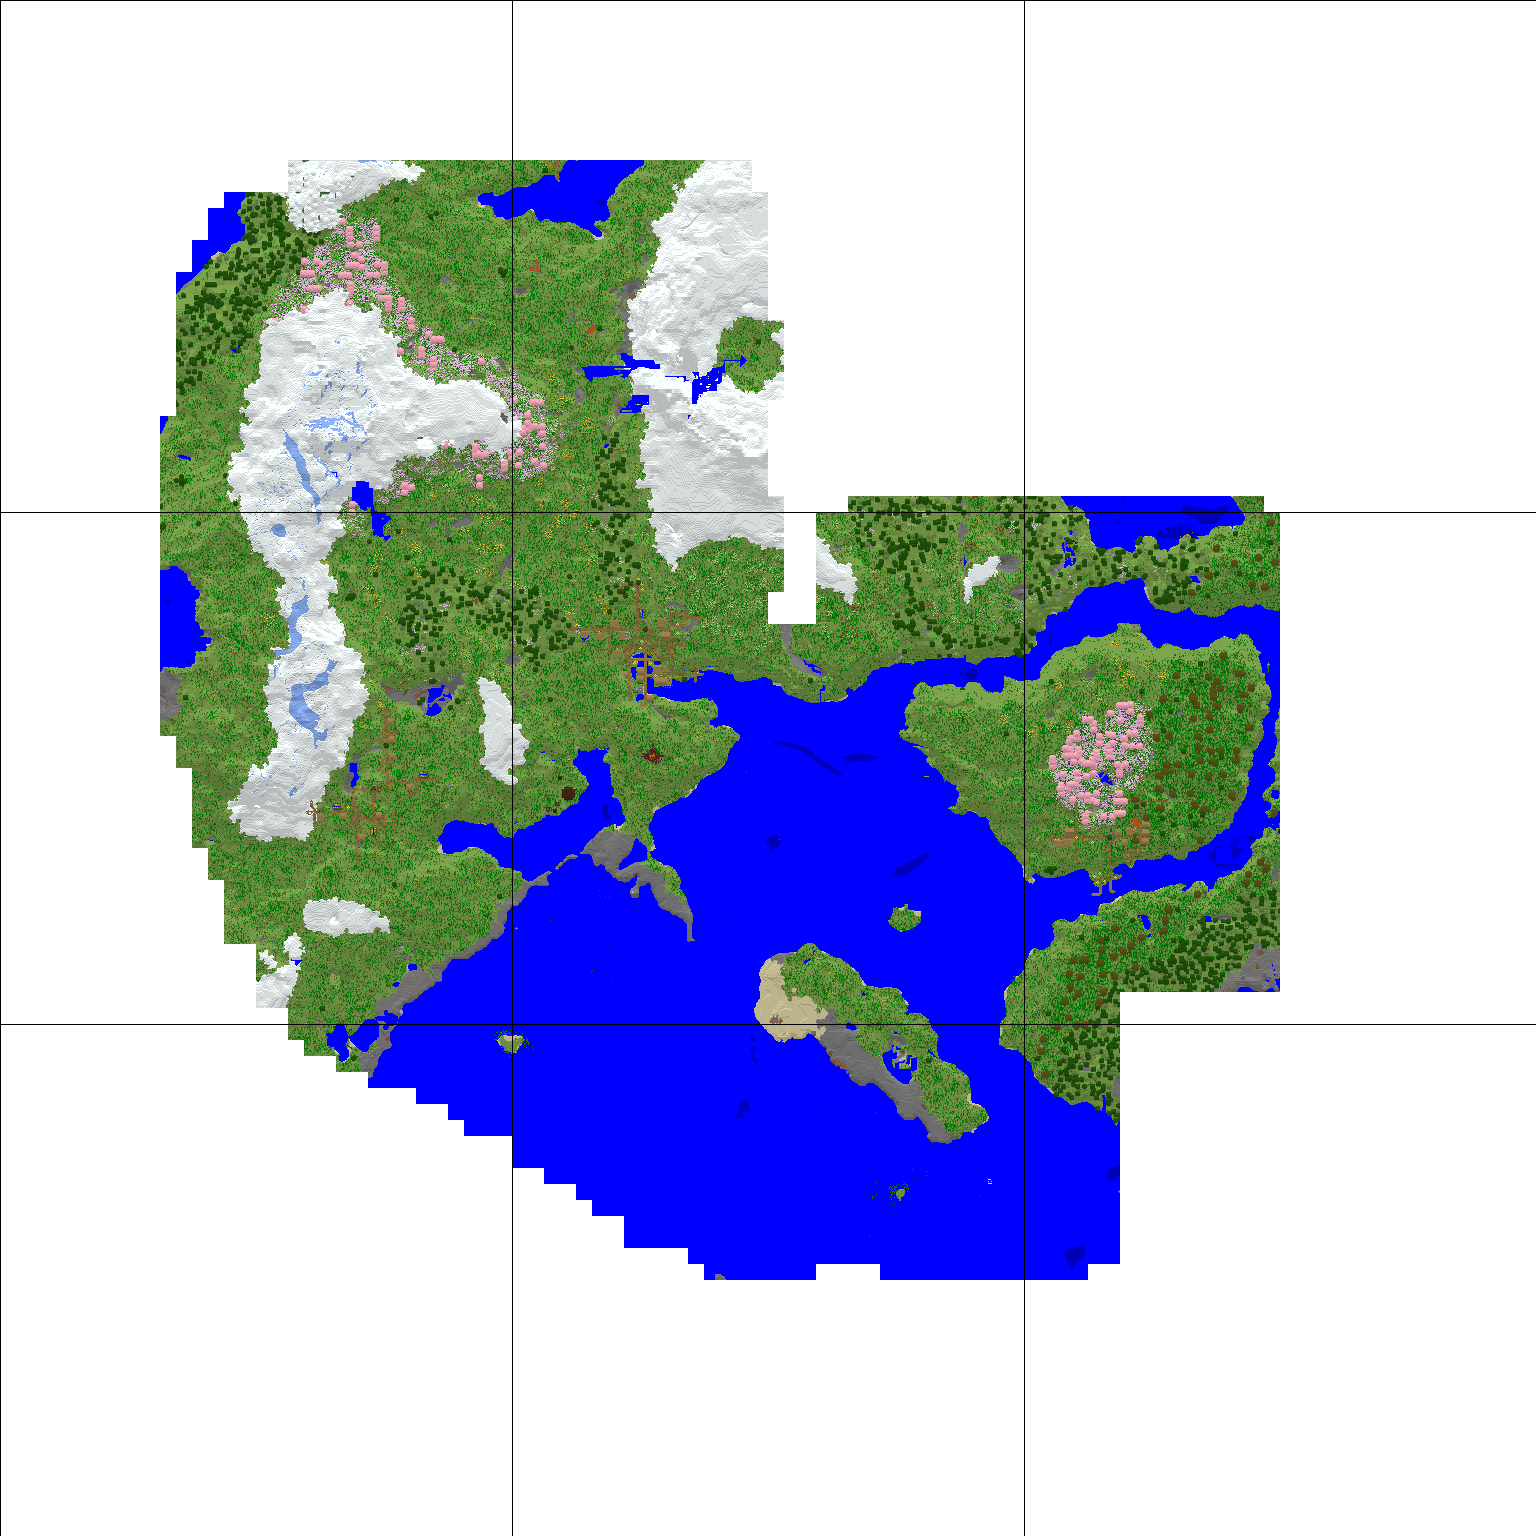
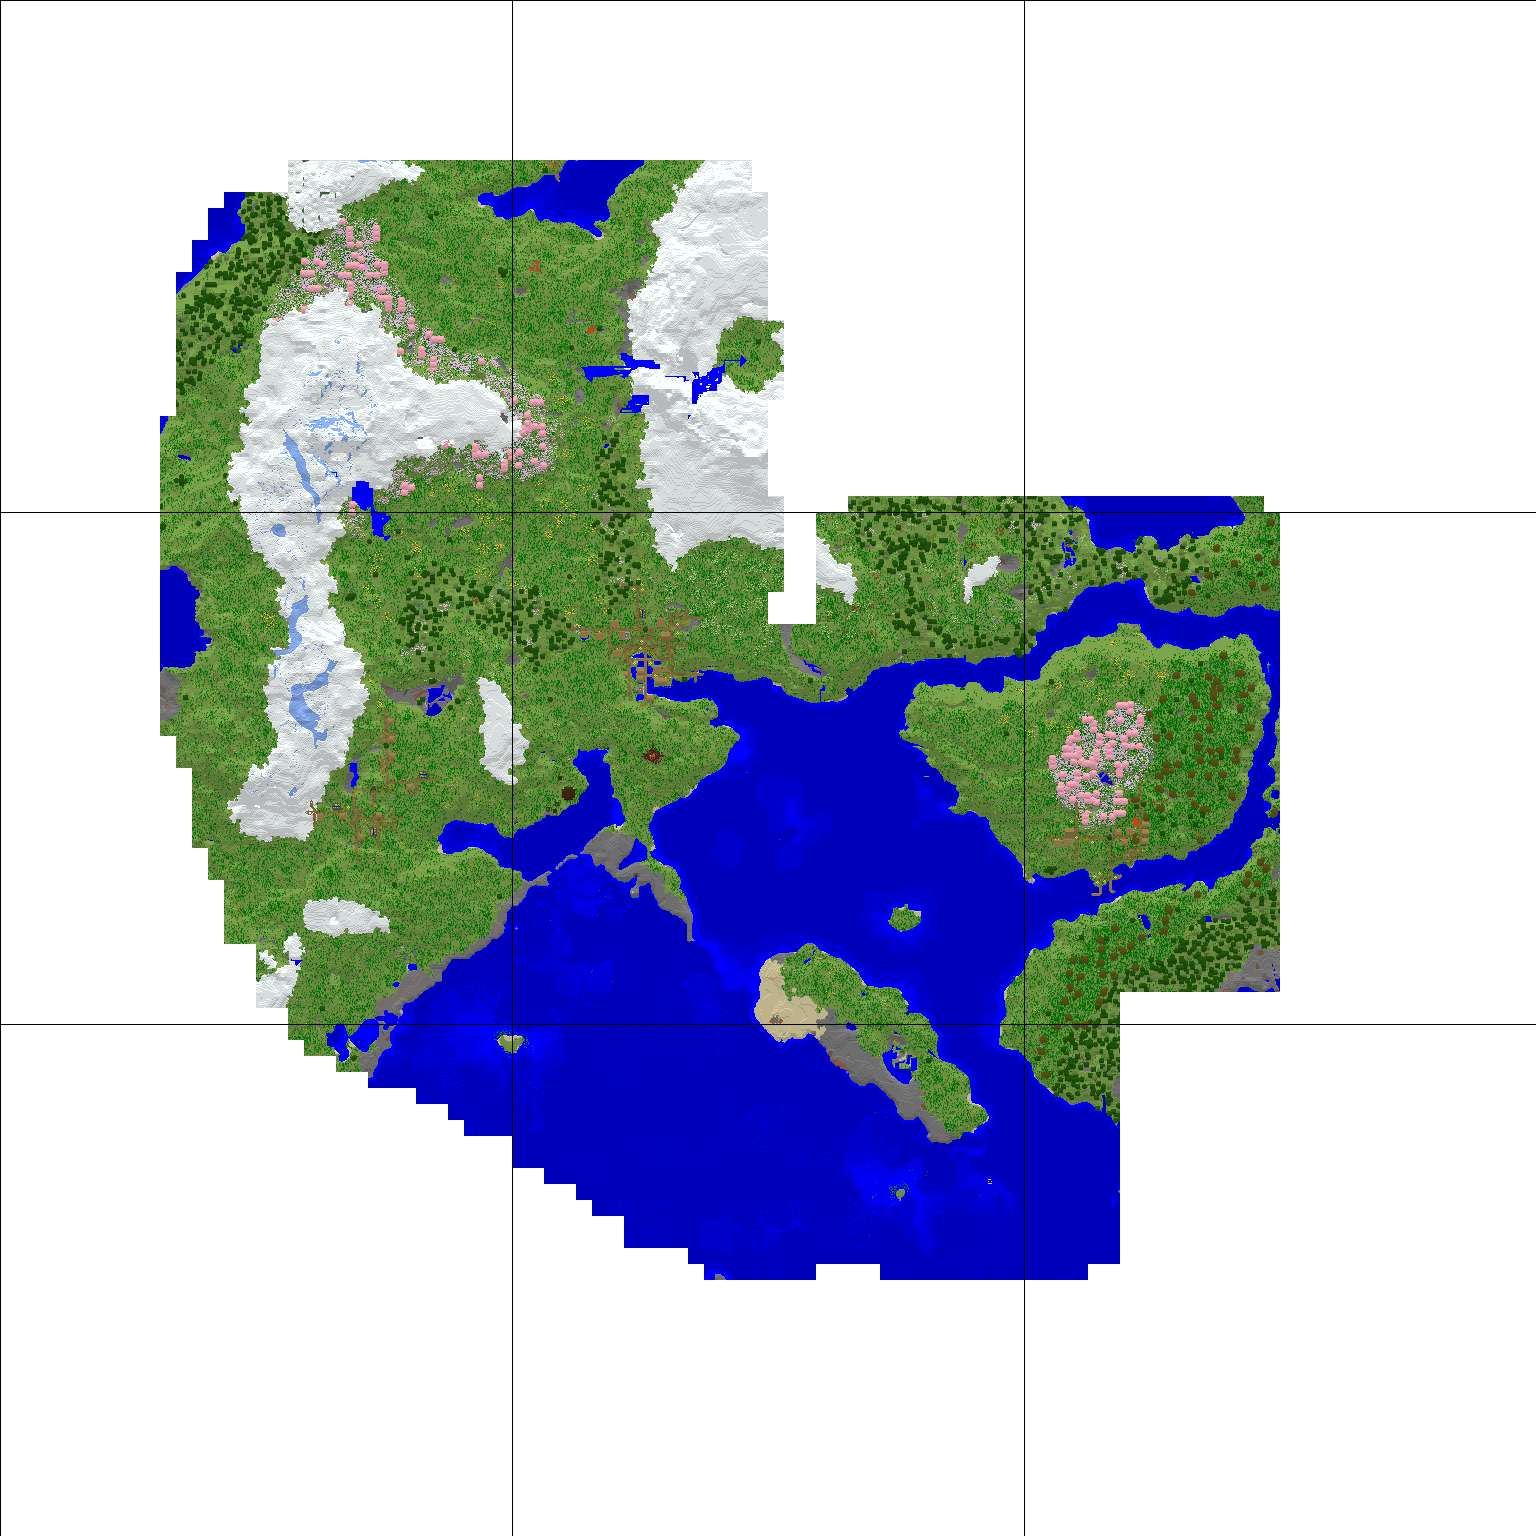
feat: added water depth shading

diff --git a/world-map-generator/src/main/java/net/world/map/structure/collecions/SolidBlockCollection.java b/world-map-generator/src/main/java/net/world/map/structure/collecions/SolidBlockCollection.java
@@ -1,0 +1,149 @@
+package net.world.map.structure.collecions;
+
+import java.util.HashSet;
+import java.util.Set;
+
+public class SolidBlockCollection {
+    public static final Set<String> NOT_SOLID_BLOCKS = new HashSet<>();
+
+    static {
+        NOT_SOLID_BLOCKS.add(MaterialCollection.AIR);
+        NOT_SOLID_BLOCKS.add(MaterialCollection.WATER);
+        NOT_SOLID_BLOCKS.add(MaterialCollection.LAVA);
+        NOT_SOLID_BLOCKS.add(MaterialCollection.POWERED_RAIL);
+        NOT_SOLID_BLOCKS.add(MaterialCollection.DETECTOR_RAIL);
+        NOT_SOLID_BLOCKS.add(MaterialCollection.BROWN_MUSHROOM);
+        NOT_SOLID_BLOCKS.add(MaterialCollection.RED_MUSHROOM);
+        NOT_SOLID_BLOCKS.add(MaterialCollection.TORCH);
+        NOT_SOLID_BLOCKS.add(MaterialCollection.REDSTONE_WIRE);
+        NOT_SOLID_BLOCKS.add(MaterialCollection.LADDER);
+        NOT_SOLID_BLOCKS.add(MaterialCollection.LEVER);
+        NOT_SOLID_BLOCKS.add(MaterialCollection.STONE_BUTTON);
+        NOT_SOLID_BLOCKS.add(MaterialCollection.PUMPKIN_STEM);
+        NOT_SOLID_BLOCKS.add(MaterialCollection.MELON_STEM);
+        NOT_SOLID_BLOCKS.add(MaterialCollection.VINE);
+        NOT_SOLID_BLOCKS.add(MaterialCollection.COCOA);
+        NOT_SOLID_BLOCKS.add(MaterialCollection.TRIPWIRE_HOOK);
+        NOT_SOLID_BLOCKS.add(MaterialCollection.TRIPWIRE);
+        NOT_SOLID_BLOCKS.add(MaterialCollection.FLOWER_POT);
+        NOT_SOLID_BLOCKS.add(MaterialCollection.ACTIVATOR_RAIL);
+        NOT_SOLID_BLOCKS.add(MaterialCollection.END_ROD);
+        NOT_SOLID_BLOCKS.add(MaterialCollection.CHORUS_PLANT);
+        NOT_SOLID_BLOCKS.add(MaterialCollection.CHORUS_FLOWER);
+        NOT_SOLID_BLOCKS.add(MaterialCollection.SUGAR_CANE);
+        NOT_SOLID_BLOCKS.add(MaterialCollection.MELON);
+        NOT_SOLID_BLOCKS.add(MaterialCollection.SHORT_GRASS);
+        NOT_SOLID_BLOCKS.add(MaterialCollection.TALL_GRASS);
+        NOT_SOLID_BLOCKS.add(MaterialCollection.FERN);
+        NOT_SOLID_BLOCKS.add(MaterialCollection.LARGE_FERN);
+        NOT_SOLID_BLOCKS.add(MaterialCollection.KELP);
+        NOT_SOLID_BLOCKS.add(MaterialCollection.WHEAT);
+        NOT_SOLID_BLOCKS.add(MaterialCollection.SEA_PICKLE);
+        NOT_SOLID_BLOCKS.add(MaterialCollection.SEAGRASS);
+        NOT_SOLID_BLOCKS.add(MaterialCollection.TALL_SEAGRASS);
+        NOT_SOLID_BLOCKS.add(MaterialCollection.SCULK_CATALYST);
+        NOT_SOLID_BLOCKS.add(MaterialCollection.FROGSPAWN);
+        NOT_SOLID_BLOCKS.add(MaterialCollection.ACACIA_HANGING_SIGN);
+        NOT_SOLID_BLOCKS.add(MaterialCollection.CHERRY_HANGING_SIGN);
+        NOT_SOLID_BLOCKS.add(MaterialCollection.JUNGLE_HANGING_SIGN);
+        NOT_SOLID_BLOCKS.add(MaterialCollection.DARK_OAK_HANGING_SIGN);
+        NOT_SOLID_BLOCKS.add(MaterialCollection.CRIMSON_HANGING_SIGN);
+        NOT_SOLID_BLOCKS.add(MaterialCollection.WARPED_HANGING_SIGN);
+        NOT_SOLID_BLOCKS.add(MaterialCollection.MANGROVE_HANGING_SIGN);
+        NOT_SOLID_BLOCKS.add(MaterialCollection.BAMBOO_HANGING_SIGN);
+        NOT_SOLID_BLOCKS.add(MaterialCollection.OAK_WALL_HANGING_SIGN);
+        NOT_SOLID_BLOCKS.add(MaterialCollection.SPRUCE_WALL_HANGING_SIGN);
+        NOT_SOLID_BLOCKS.add(MaterialCollection.BIRCH_WALL_HANGING_SIGN);
+        NOT_SOLID_BLOCKS.add(MaterialCollection.ACACIA_WALL_HANGING_SIGN);
+        NOT_SOLID_BLOCKS.add(MaterialCollection.CHERRY_WALL_HANGING_SIGN);
+        NOT_SOLID_BLOCKS.add(MaterialCollection.JUNGLE_WALL_HANGING_SIGN);
+        NOT_SOLID_BLOCKS.add(MaterialCollection.DARK_OAK_WALL_HANGING_SIGN);
+        NOT_SOLID_BLOCKS.add(MaterialCollection.MANGROVE_WALL_HANGING_SIGN);
+        NOT_SOLID_BLOCKS.add(MaterialCollection.CRIMSON_WALL_HANGING_SIGN);
+        NOT_SOLID_BLOCKS.add(MaterialCollection.WARPED_WALL_HANGING_SIGN);
+        NOT_SOLID_BLOCKS.add(MaterialCollection.BAMBOO_WALL_HANGING_SIGN);
+        NOT_SOLID_BLOCKS.add(MaterialCollection.DEAD_BUSH);
+        NOT_SOLID_BLOCKS.add(MaterialCollection.DEAD_TUBE_CORAL_BLOCK);
+        NOT_SOLID_BLOCKS.add(MaterialCollection.DEAD_BRAIN_CORAL_BLOCK);
+        NOT_SOLID_BLOCKS.add(MaterialCollection.DEAD_BUBBLE_CORAL_BLOCK);
+        NOT_SOLID_BLOCKS.add(MaterialCollection.DEAD_FIRE_CORAL_BLOCK);
+        NOT_SOLID_BLOCKS.add(MaterialCollection.DEAD_HORN_CORAL_BLOCK);
+        NOT_SOLID_BLOCKS.add(MaterialCollection.TUBE_CORAL_BLOCK);
+        NOT_SOLID_BLOCKS.add(MaterialCollection.BRAIN_CORAL_BLOCK);
+        NOT_SOLID_BLOCKS.add(MaterialCollection.BUBBLE_CORAL_BLOCK);
+        NOT_SOLID_BLOCKS.add(MaterialCollection.FIRE_CORAL_BLOCK);
+        NOT_SOLID_BLOCKS.add(MaterialCollection.HORN_CORAL_BLOCK);
+        NOT_SOLID_BLOCKS.add(MaterialCollection.DEAD_TUBE_CORAL);
+        NOT_SOLID_BLOCKS.add(MaterialCollection.DEAD_BRAIN_CORAL);
+        NOT_SOLID_BLOCKS.add(MaterialCollection.DEAD_BUBBLE_CORAL);
+        NOT_SOLID_BLOCKS.add(MaterialCollection.DEAD_FIRE_CORAL);
+        NOT_SOLID_BLOCKS.add(MaterialCollection.DEAD_HORN_CORAL);
+        NOT_SOLID_BLOCKS.add(MaterialCollection.TUBE_CORAL);
+        NOT_SOLID_BLOCKS.add(MaterialCollection.BRAIN_CORAL);
+        NOT_SOLID_BLOCKS.add(MaterialCollection.BUBBLE_CORAL);
+        NOT_SOLID_BLOCKS.add(MaterialCollection.FIRE_CORAL);
+        NOT_SOLID_BLOCKS.add(MaterialCollection.HORN_CORAL);
+        NOT_SOLID_BLOCKS.add(MaterialCollection.DEAD_TUBE_CORAL_FAN);
+        NOT_SOLID_BLOCKS.add(MaterialCollection.DEAD_BRAIN_CORAL_FAN);
+        NOT_SOLID_BLOCKS.add(MaterialCollection.DEAD_BUBBLE_CORAL_FAN);
+        NOT_SOLID_BLOCKS.add(MaterialCollection.DEAD_FIRE_CORAL_FAN);
+        NOT_SOLID_BLOCKS.add(MaterialCollection.DEAD_HORN_CORAL_FAN);
+        NOT_SOLID_BLOCKS.add(MaterialCollection.TUBE_CORAL_FAN);
+        NOT_SOLID_BLOCKS.add(MaterialCollection.BRAIN_CORAL_FAN);
+        NOT_SOLID_BLOCKS.add(MaterialCollection.BUBBLE_CORAL_FAN);
+        NOT_SOLID_BLOCKS.add(MaterialCollection.FIRE_CORAL_FAN);
+        NOT_SOLID_BLOCKS.add(MaterialCollection.HORN_CORAL_FAN);
+        NOT_SOLID_BLOCKS.add(MaterialCollection.DEAD_TUBE_CORAL_WALL_FAN);
+        NOT_SOLID_BLOCKS.add(MaterialCollection.DEAD_BRAIN_CORAL_WALL_FAN);
+        NOT_SOLID_BLOCKS.add(MaterialCollection.DEAD_BUBBLE_CORAL_WALL_FAN);
+        NOT_SOLID_BLOCKS.add(MaterialCollection.DEAD_FIRE_CORAL_WALL_FAN);
+        NOT_SOLID_BLOCKS.add(MaterialCollection.DEAD_HORN_CORAL_WALL_FAN);
+        NOT_SOLID_BLOCKS.add(MaterialCollection.TUBE_CORAL_WALL_FAN);
+        NOT_SOLID_BLOCKS.add(MaterialCollection.BRAIN_CORAL_WALL_FAN);
+        NOT_SOLID_BLOCKS.add(MaterialCollection.BUBBLE_CORAL_WALL_FAN);
+        NOT_SOLID_BLOCKS.add(MaterialCollection.FIRE_CORAL_WALL_FAN);
+        NOT_SOLID_BLOCKS.add(MaterialCollection.HORN_CORAL_WALL_FAN);
+        NOT_SOLID_BLOCKS.add(MaterialCollection.COBWEB);
+        NOT_SOLID_BLOCKS.add(MaterialCollection.FIRE);
+        NOT_SOLID_BLOCKS.add(MaterialCollection.STRUCTURE_VOID);
+        NOT_SOLID_BLOCKS.add(MaterialCollection.NETHER_PORTAL);
+        NOT_SOLID_BLOCKS.add(MaterialCollection.END_GATEWAY);
+        NOT_SOLID_BLOCKS.add(MaterialCollection.SNOW);
+        NOT_SOLID_BLOCKS.add(MaterialCollection.LIGHT_WEIGHTED_PRESSURE_PLATE);
+        NOT_SOLID_BLOCKS.add(MaterialCollection.HEAVY_WEIGHTED_PRESSURE_PLATE);
+        NOT_SOLID_BLOCKS.add(MaterialCollection.POLISHED_BLACKSTONE_PRESSURE_PLATE);
+        NOT_SOLID_BLOCKS.add(MaterialCollection.OAK_PRESSURE_PLATE);
+        NOT_SOLID_BLOCKS.add(MaterialCollection.SPRUCE_PRESSURE_PLATE);
+        NOT_SOLID_BLOCKS.add(MaterialCollection.BIRCH_PRESSURE_PLATE);
+        NOT_SOLID_BLOCKS.add(MaterialCollection.JUNGLE_PRESSURE_PLATE);
+        NOT_SOLID_BLOCKS.add(MaterialCollection.ACACIA_PRESSURE_PLATE);
+        NOT_SOLID_BLOCKS.add(MaterialCollection.CHERRY_PRESSURE_PLATE);
+        NOT_SOLID_BLOCKS.add(MaterialCollection.DARK_OAK_PRESSURE_PLATE);
+        NOT_SOLID_BLOCKS.add(MaterialCollection.MANGROVE_PRESSURE_PLATE);
+        NOT_SOLID_BLOCKS.add(MaterialCollection.BAMBOO_PRESSURE_PLATE);
+        NOT_SOLID_BLOCKS.add(MaterialCollection.STONE_PRESSURE_PLATE);
+        NOT_SOLID_BLOCKS.add(MaterialCollection.CRIMSON_PRESSURE_PLATE);
+        NOT_SOLID_BLOCKS.add(MaterialCollection.WARPED_PRESSURE_PLATE);
+        NOT_SOLID_BLOCKS.add(MaterialCollection.SPRUCE_SAPLING);
+        NOT_SOLID_BLOCKS.add(MaterialCollection.OAK_SAPLING);
+        NOT_SOLID_BLOCKS.add(MaterialCollection.BIRCH_SAPLING);
+        NOT_SOLID_BLOCKS.add(MaterialCollection.JUNGLE_SAPLING);
+        NOT_SOLID_BLOCKS.add(MaterialCollection.ACACIA_SAPLING);
+        NOT_SOLID_BLOCKS.add(MaterialCollection.CHERRY_SAPLING);
+        NOT_SOLID_BLOCKS.add(MaterialCollection.DARK_OAK_SAPLING);
+        NOT_SOLID_BLOCKS.add(MaterialCollection.POTTED_OAK_SAPLING);
+        NOT_SOLID_BLOCKS.add(MaterialCollection.POTTED_SPRUCE_SAPLING);
+        NOT_SOLID_BLOCKS.add(MaterialCollection.POTTED_BIRCH_SAPLING);
+        NOT_SOLID_BLOCKS.add(MaterialCollection.POTTED_JUNGLE_SAPLING);
+        NOT_SOLID_BLOCKS.add(MaterialCollection.POTTED_ACACIA_SAPLING);
+        NOT_SOLID_BLOCKS.add(MaterialCollection.POTTED_CHERRY_SAPLING);
+        NOT_SOLID_BLOCKS.add(MaterialCollection.POTTED_DARK_OAK_SAPLING);
+        NOT_SOLID_BLOCKS.add(MaterialCollection.BAMBOO_SAPLING);
+        NOT_SOLID_BLOCKS.add(MaterialCollection.CRIMSON_FUNGUS);
+        //TODO add and mark all blocks
+    }
+
+    public static boolean isNotSolid(String blockType) {
+        return NOT_SOLID_BLOCKS.contains(blockType);
+    }
+}

diff --git a/world-map-generator/src/main/java/net/world/map/structure/collecions/MaterialColorCollection.java b/world-map-generator/src/main/java/net/world/map/structure/collecions/MaterialColorCollection.java
@@ -1,10 +1,10 @@
 package net.world.map.structure.collecions;
 
-import java.util.LinkedHashMap;
+import java.util.HashMap;
 import java.util.Map;
 
-public class MaterialColorsCollection {
-    public static final Map<String, Integer> BLOCK_COLORS = new LinkedHashMap<>();
+public class MaterialColorCollection {
+    public static final Map<String, Integer> BLOCK_COLORS = new HashMap<>();
 
     static {
         BLOCK_COLORS.put(MaterialCollection.CHERRY_LEAVES, -86334);
@@ -400,8 +400,6 @@ public class MaterialColorsCollection {
         BLOCK_COLORS.put(MaterialCollection.LAVA, 13916690);
         BLOCK_COLORS.put(MaterialCollection.LAVA_CAULDRON, 4868426);
         BLOCK_COLORS.put(MaterialCollection.LECTERN, 11438419);
-
-
         BLOCK_COLORS.put(MaterialCollection.LIGHT_BLUE_BED, 3846105);
         BLOCK_COLORS.put(MaterialCollection.LIGHT_BLUE_CANDLE, 2329541);
         BLOCK_COLORS.put(MaterialCollection.LIGHT_BLUE_CANDLE_CAKE, 2329541);
@@ -749,7 +747,6 @@ public class MaterialColorsCollection {
         BLOCK_COLORS.put(MaterialCollection.SPAWNER, 2436928);
         BLOCK_COLORS.put(MaterialCollection.SPONGE, 12894539);
         BLOCK_COLORS.put(MaterialCollection.SPORE_BLOSSOM, 13919140);
-
         BLOCK_COLORS.put(MaterialCollection.SPRUCE_DOOR, 6967344);
         BLOCK_COLORS.put(MaterialCollection.SPRUCE_FENCE, 7558449);
         BLOCK_COLORS.put(MaterialCollection.SPRUCE_FENCE_GATE, 7558449);
@@ -891,7 +888,9 @@ public class MaterialColorsCollection {
         BLOCK_COLORS.put(MaterialCollection.FERN, -16745472);
         BLOCK_COLORS.put(MaterialCollection.LARGE_FERN, -16745472);
         BLOCK_COLORS.put(MaterialCollection.KELP, -16745472);
+        BLOCK_COLORS.put(MaterialCollection.KELP_PLANT, -16745472);
         BLOCK_COLORS.put(MaterialCollection.WHEAT, -2574531);
+        BLOCK_COLORS.put(MaterialCollection.FARMLAND, -5940693);
     }
 
     public static int getColor(String blockType) {

diff --git a/world-map-generator/src/main/java/net/world/map/generator/renderers/ChunkRenderer.java b/world-map-generator/src/main/java/net/world/map/generator/renderers/ChunkRenderer.java
@@ -1,8 +1,8 @@
 package net.world.map.generator.renderers;
 
 import net.world.map.structure.collecions.MaterialCollection;
+import net.world.map.structure.collecions.MaterialColorCollection;
 import net.world.map.structure.config.ChunkConfig;
-import net.world.map.structure.collecions.MaterialColorsCollection;
 import net.world.map.structure.model.Block;
 import net.world.map.structure.model.Chunk;
 import net.world.map.structure.model.UnderwaterBlock;
@@ -31,12 +31,13 @@ public class ChunkRenderer {
 
                 int blockHeight = block.getHeight();
                 int brightness;
-                int color;
+                int color = MaterialColorCollection.getColor(block.getBlockType());
 
                 if (block instanceof UnderwaterBlock underwaterBlock) {
-                    color = MaterialColorsCollection.getColor(MaterialCollection.WATER);
                     int depth = underwaterBlock.getDepth();
-                    double heightDiff = (double) (depth - blockHeight) * 0.1D + (double) (x + y & 1) * 0.2D;
+                    double heightDiff = (double) depth * 0.1D + (double) (x + y & 1) * 0.2D;
+
+                    color = MaterialColorCollection.getColor(MaterialCollection.WATER);
 
                     if (heightDiff < 0.5D) {
                         brightness = 0x00;
@@ -46,7 +47,6 @@ public class ChunkRenderer {
                         brightness = 0x22;
                     }
                 } else {
-                    color = block.getRgb();
                     double heightDiff = (blockHeight - lastBlockHeight) * 4.0D / (double) (1 + 4) + ((double) (x + y & 1) - 0.5D) * 0.4D;
 
                     if (heightDiff > 0.6D) {

diff --git a/world-map-generator/src/main/java/net/world/map/loader/parsers/ChunkParser.java b/world-map-generator/src/main/java/net/world/map/loader/parsers/ChunkParser.java
@@ -3,9 +3,10 @@ package net.world.map.loader.parsers;
 import net.querz.nbt.tag.CompoundTag;
 import net.querz.nbt.tag.ListTag;
 import net.world.map.loader.config.LoadingBlockConfig;
-import net.world.map.structure.collecions.MaterialColorsCollection;
 import net.world.map.structure.collecions.MaterialCollection;
-import net.world.map.structure.config.*;
+import net.world.map.structure.config.ChunkConfig;
+import net.world.map.structure.config.SectionConfig;
+import net.world.map.structure.config.WorldConfig;
 import net.world.map.structure.model.Block;
 import net.world.map.structure.model.Chunk;
 import net.world.map.structure.model.UnderwaterBlock;
@@ -69,14 +70,13 @@ public class ChunkParser {
 
                     int blockGlobalX = startBlockX + x;
                     int blockGlobalY = startBlockY + y;
-                    int rgb = MaterialColorsCollection.getColor(blockType);
 
                     if (depth > 0) {
-                        chunk.addBlockByLocal(x, y, new UnderwaterBlock(blockGlobalX, blockGlobalY, height, depth, rgb));
+                        chunk.addBlockByLocal(x, y, new UnderwaterBlock(blockGlobalX, blockGlobalY, height, depth, blockType));
                         break;
                     }
 
-                    chunk.addBlockByLocal(x, y, new Block(blockGlobalX, blockGlobalY, height, rgb));
+                    chunk.addBlockByLocal(x, y, new Block(blockGlobalX, blockGlobalY, height, blockType));
                     break;
                 }
             }

diff --git a/world-map-generator/src/main/java/net/world/map/structure/model/Block.java b/world-map-generator/src/main/java/net/world/map/structure/model/Block.java
@@ -4,13 +4,13 @@ public class Block {
     public final int x;
     public final int y;
     public final int height;
-    public final int rgb;
+    public final String blockType;
 
-    public Block(int x, int y, int height, int rgb) {
+    public Block(int x, int y, int height, String blockType) {
         this.x = x;
         this.y = y;
         this.height = height;
-        this.rgb = rgb;
+        this.blockType = blockType;
     }
 
     public int getX() {
@@ -25,7 +25,7 @@ public class Block {
         return height;
     }
 
-    public int getRgb() {
-        return rgb;
+    public String getBlockType() {
+        return blockType;
     }
 }

diff --git a/world-map-generator/src/main/java/net/world/map/structure/collecions/LiquidBlockCollection.java b/world-map-generator/src/main/java/net/world/map/structure/collecions/LiquidBlockCollection.java
@@ -1,0 +1,17 @@
+package net.world.map.structure.collecions;
+
+import java.util.HashSet;
+import java.util.Set;
+
+public class LiquidBlockCollection {
+    public static final Set<String> LIQUID_BLOCKS = new HashSet<>();
+
+    static {
+        LIQUID_BLOCKS.add(MaterialCollection.WATER);
+        LIQUID_BLOCKS.add(MaterialCollection.LAVA);
+    }
+
+    public static boolean isLiquid(String blockType) {
+        return LIQUID_BLOCKS.contains(blockType);
+    }
+}

diff --git a/world-map-generator/src/main/java/net/world/map/structure/model/UnderwaterBlock.java b/world-map-generator/src/main/java/net/world/map/structure/model/UnderwaterBlock.java
@@ -3,8 +3,8 @@ package net.world.map.structure.model;
 public class UnderwaterBlock extends Block {
     public int depth;
 
-    public UnderwaterBlock(int x, int y, int height, int depth, int rgb) {
-        super(x, y, height, rgb);
+    public UnderwaterBlock(int x, int y, int height, int depth, String blockType) {
+        super(x, y, height, blockType);
         this.depth = depth;
     }
 
